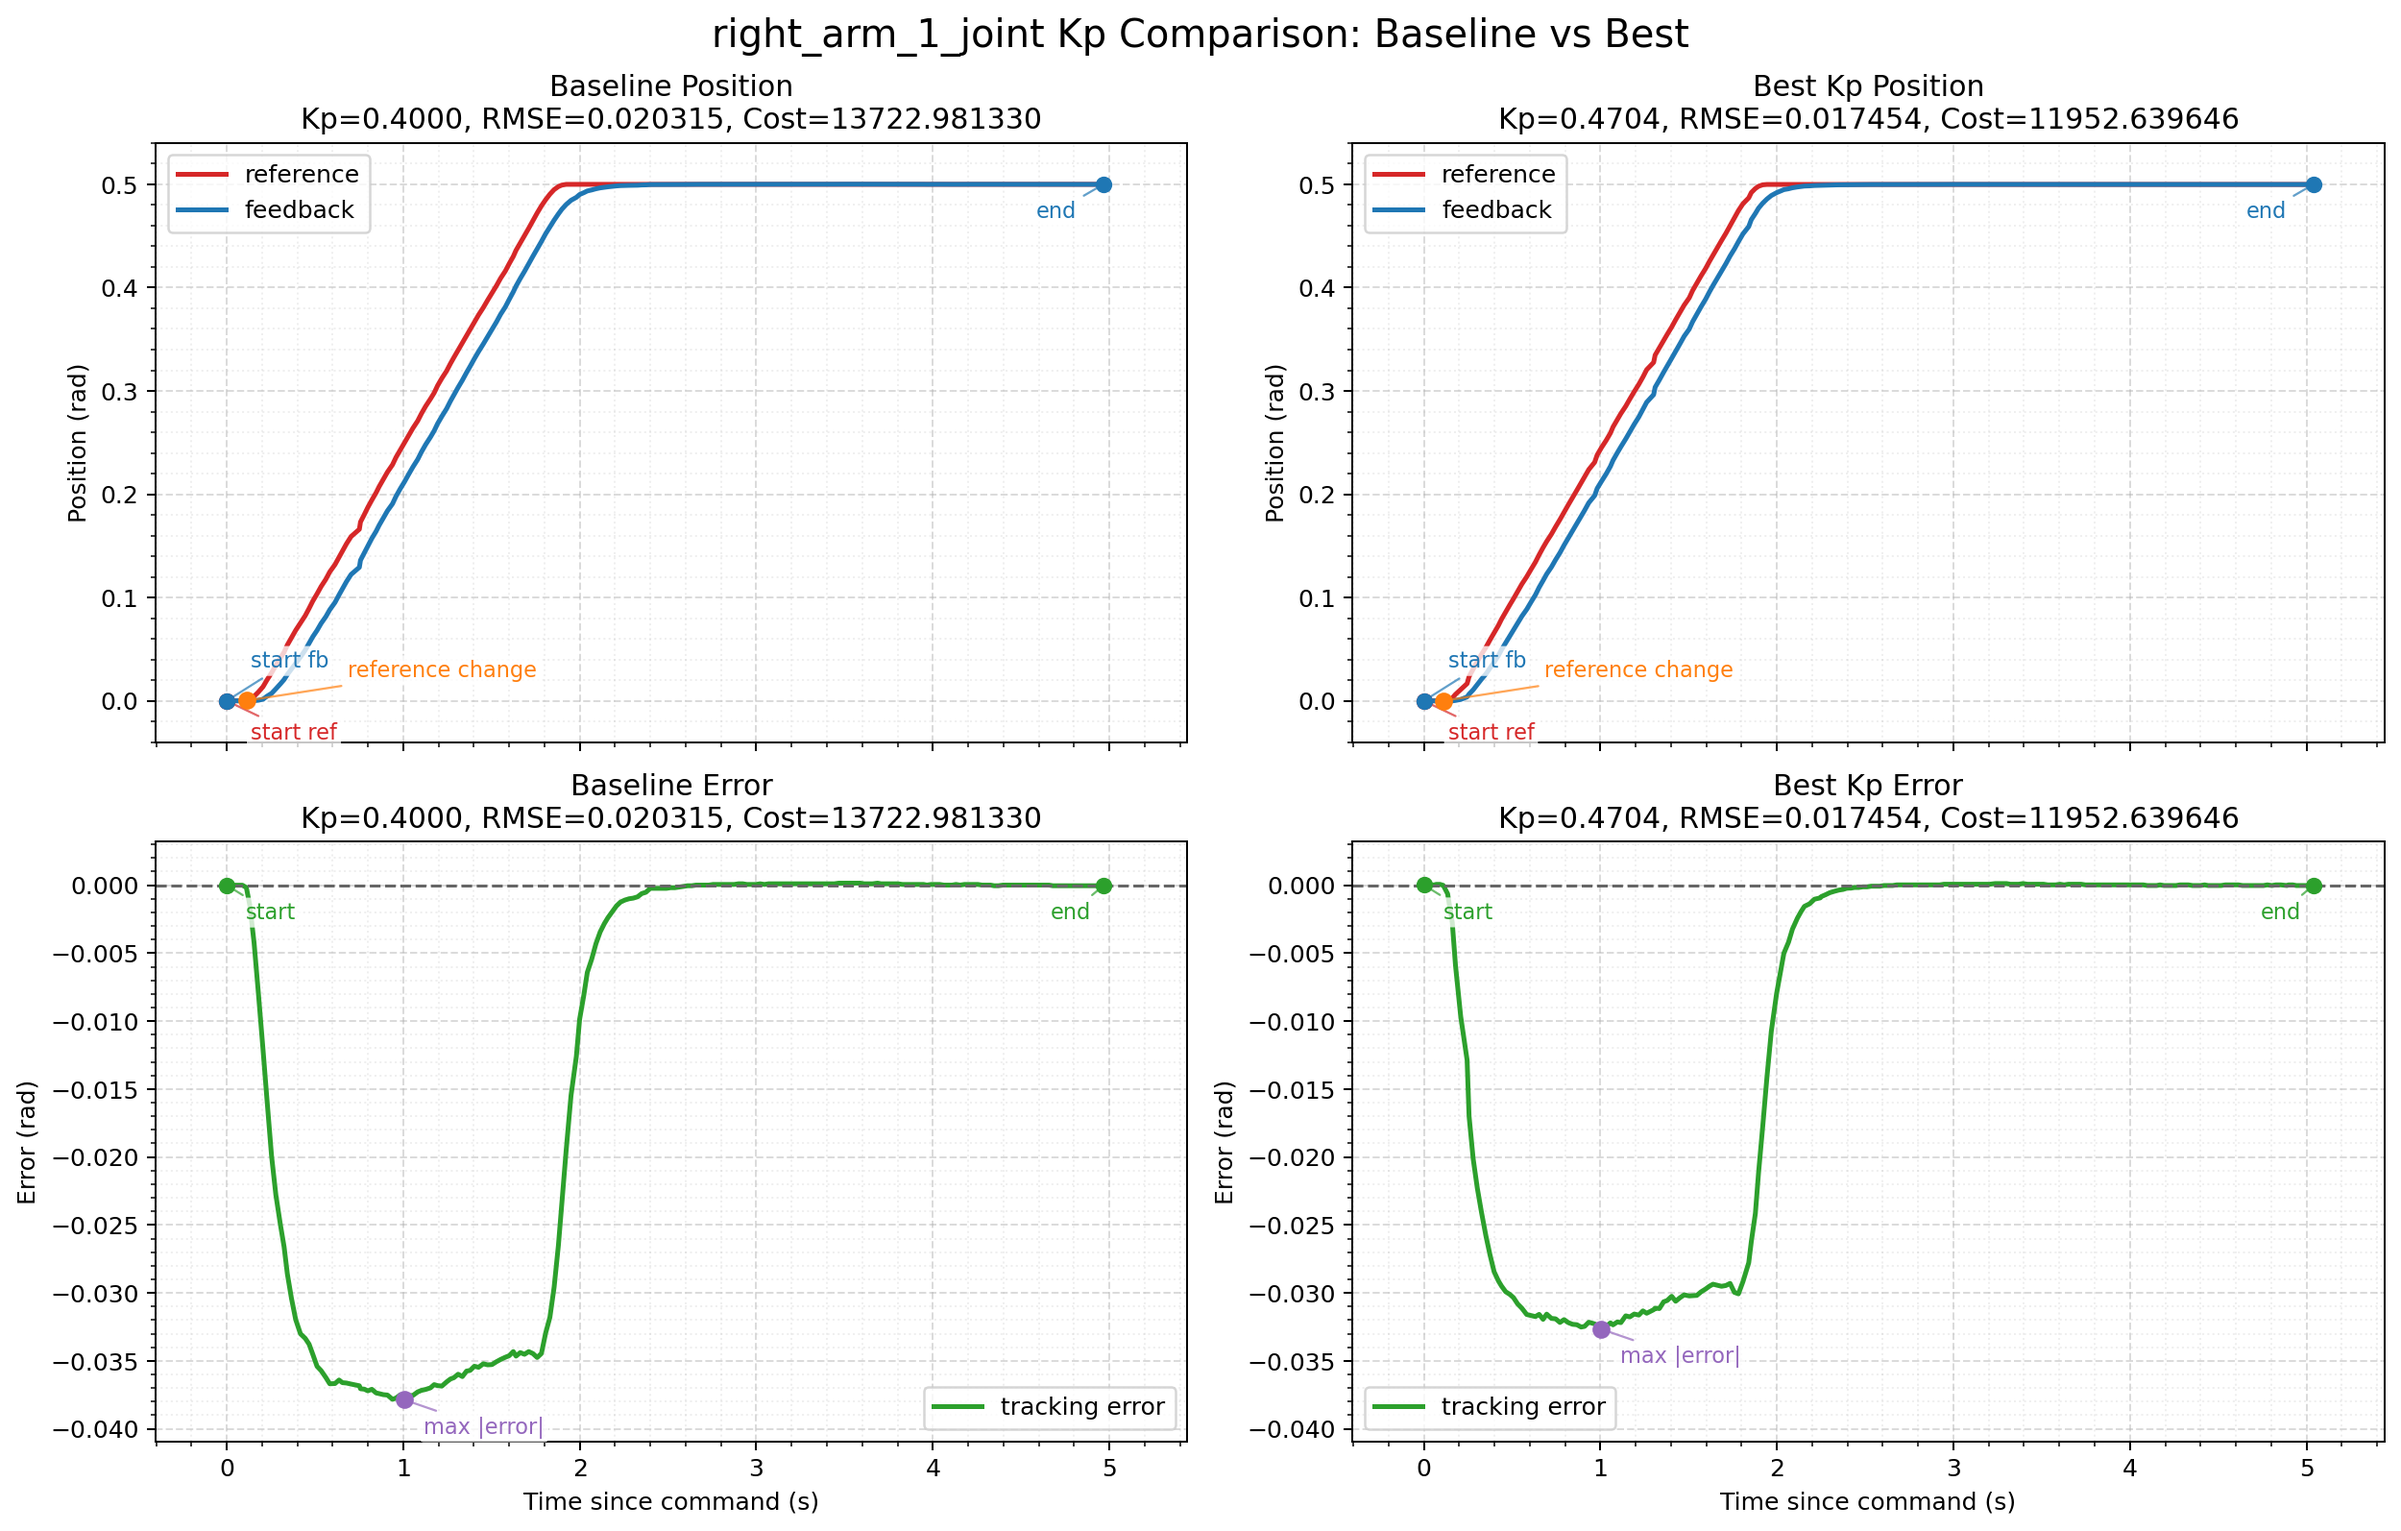
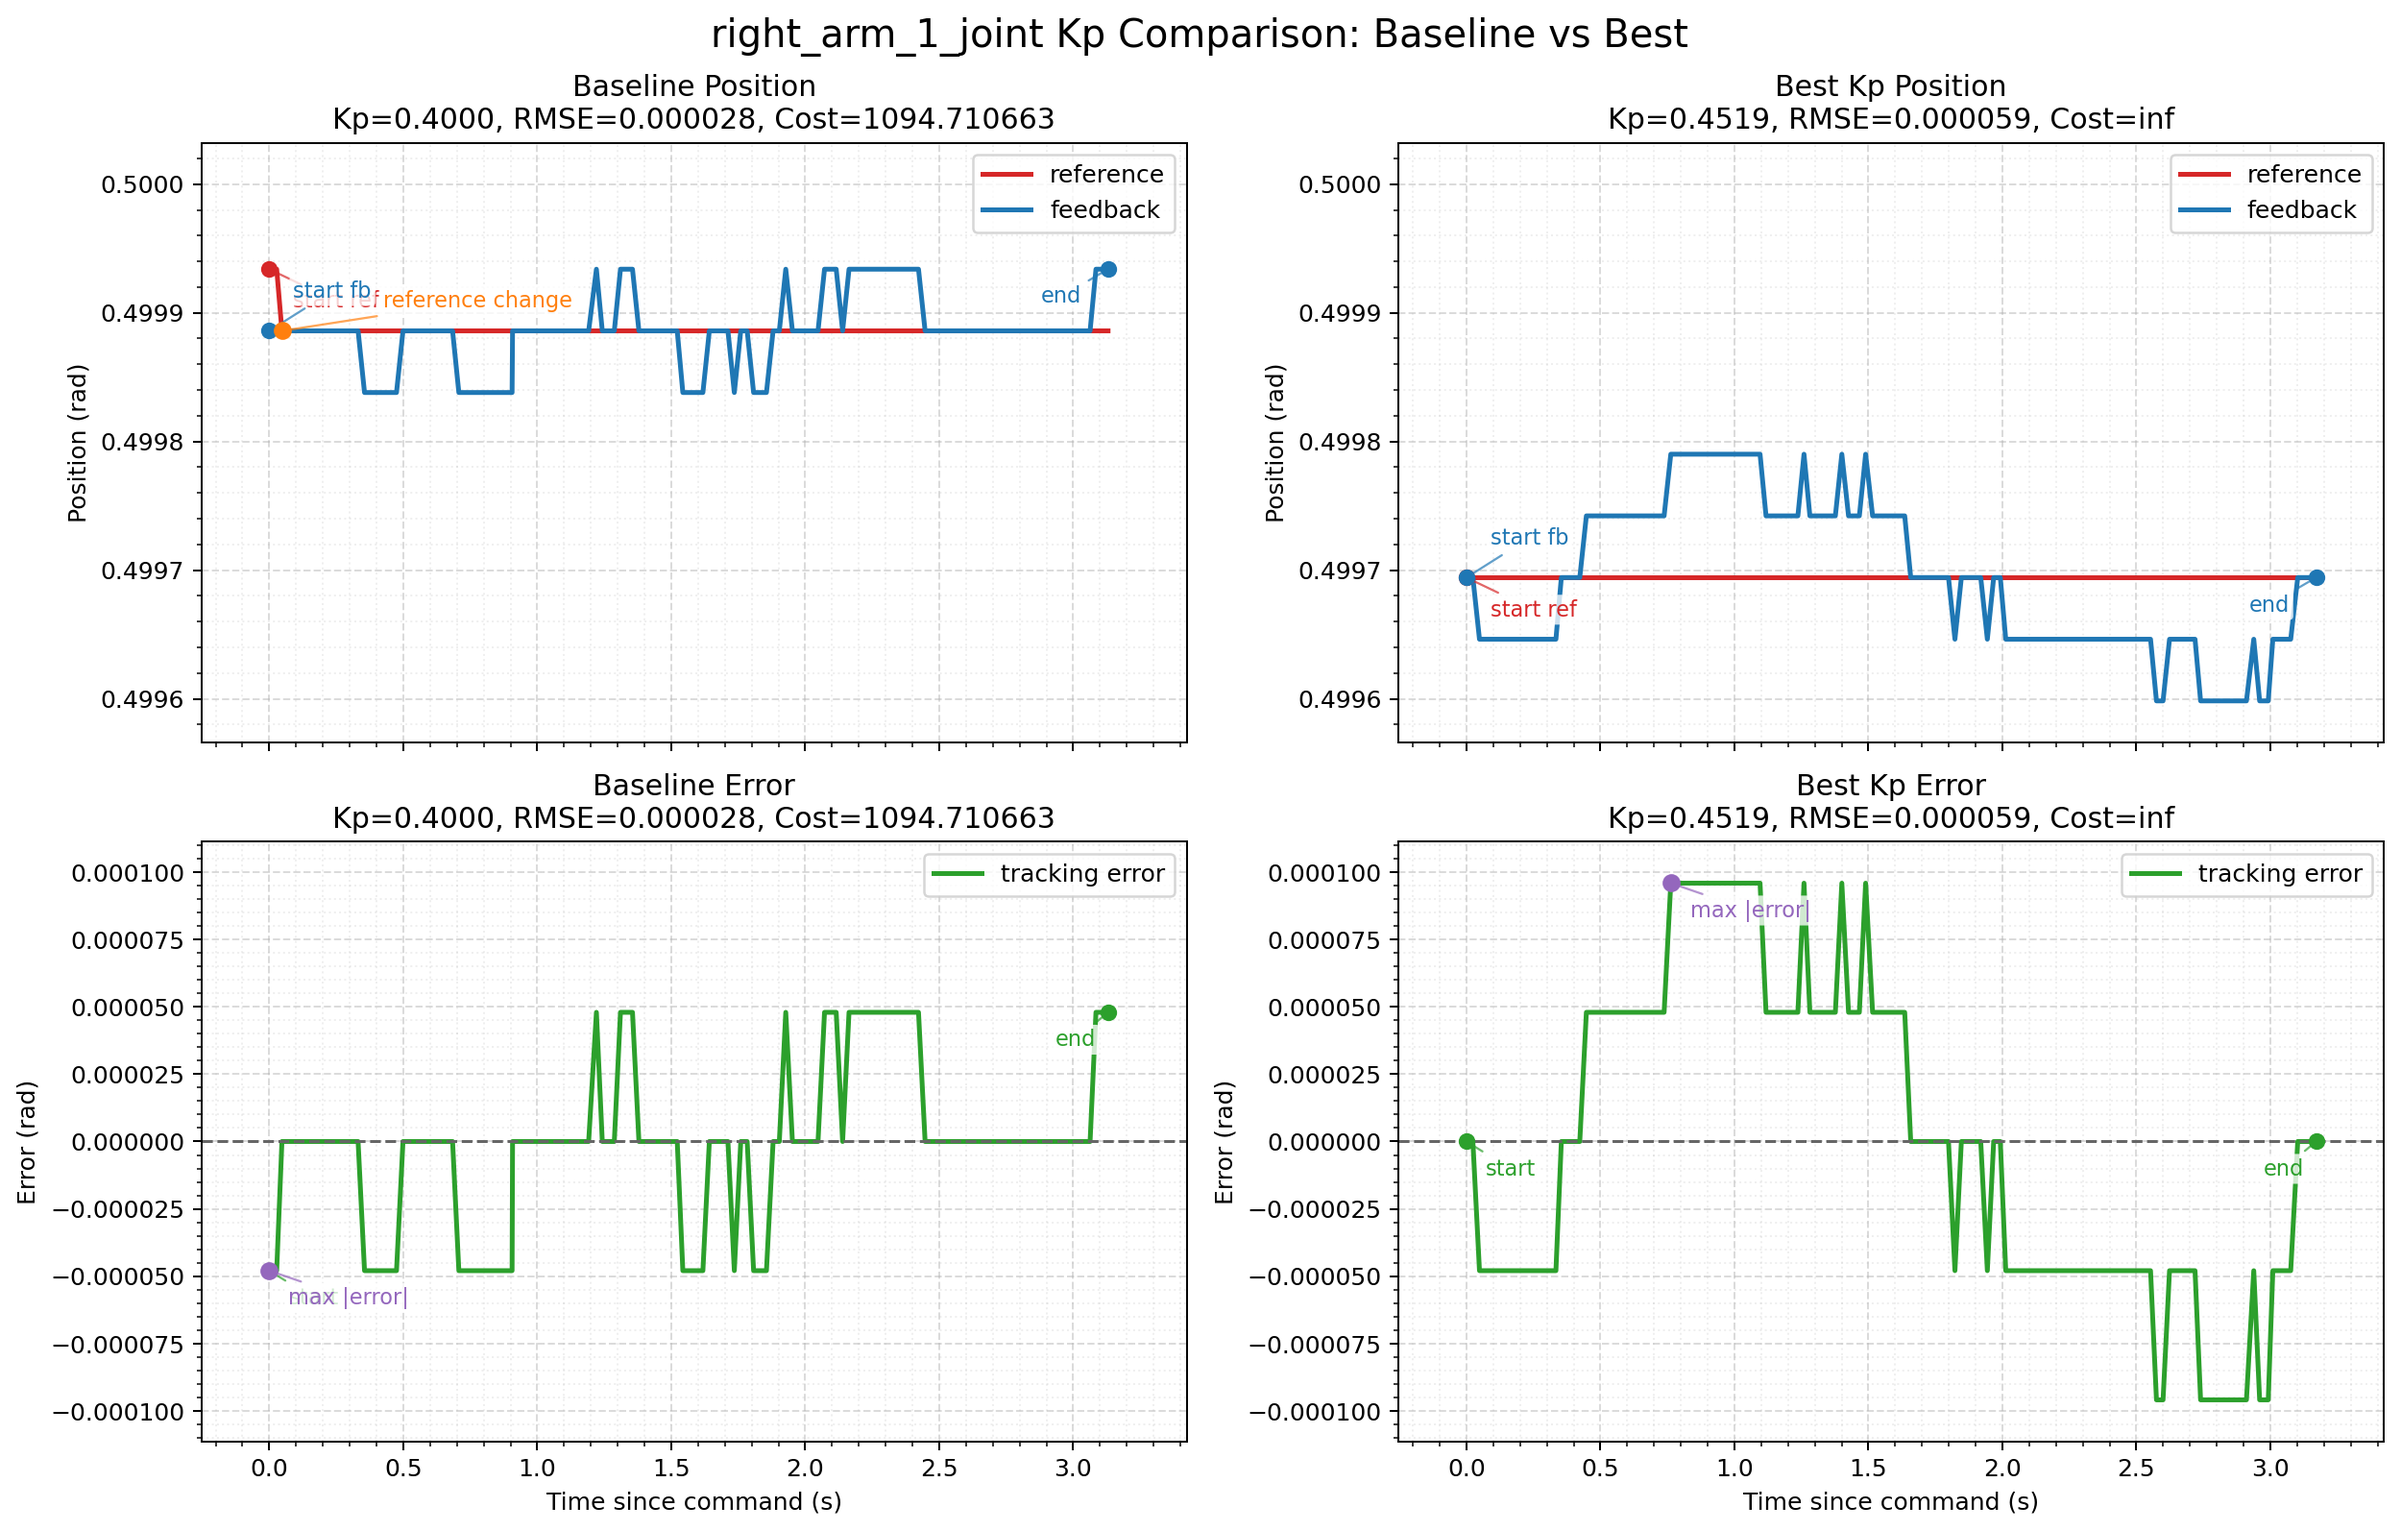
自动设定调参范围

diff --git a/right_1_arm.py b/right_1_arm.py
@@ -35,6 +35,7 @@ PHASE_LAG_COST_WEIGHT = 0.35  # 相位滞后在基础代价中的权重。
 AMPLITUDE_RATIO_COST_WEIGHT = 0.35  # 幅值比在基础代价中的权重。
 KP_INTERVAL_TOLERANCE = 0.001  # 三分搜索区间宽度小于此值时提前收敛。
 KP_MIN_ITERATIONS = 2  # 即使已达标，也至少跑这么多轮再停止。
+DEFAULT_KP_RANGE = 0.2  # 自动调参时，在当前 Kp 上下各浮动此值作为默认搜索范围。
 
 
 @dataclass
@@ -1212,17 +1213,23 @@ def parse_args() -> argparse.Namespace:  # 定义并解析命令行参数。
         default=DEFAULT_KP_ALIAS,
         help=f"EtherCAT alias of the joint drive. Default: {DEFAULT_KP_ALIAS}",
     )
-    parser.add_argument(  # 添加可选参数 `--kp-min`，用于指定自动调参下界。
+    parser.add_argument(  # 添加可选参数 `--kp-min`，不指定时自动在当前 Kp 下方浮动 kp_range。
         "--kp-min",
         type=float,
-        default=0.2,
-        help="Lower bound of Kp search interval. Default: 0.2",
+        default=None,
+        help="Lower bound of Kp search interval. Default: current_kp - kp_range",
     )
-    parser.add_argument(  # 添加可选参数 `--kp-max`，用于指定自动调参上界。
+    parser.add_argument(  # 添加可选参数 `--kp-max`，不指定时自动在当前 Kp 上方浮动 kp_range。
         "--kp-max",
         type=float,
-        default=0.5,
-        help="Upper bound of Kp search interval. Default: 0.5",
+        default=None,
+        help="Upper bound of Kp search interval. Default: current_kp + kp_range",
+    )
+    parser.add_argument(  # 添加可选参数 `--kp-range`，在当前 Kp 上下各浮动此值构成默认搜索区间。
+        "--kp-range",
+        type=float,
+        default=DEFAULT_KP_RANGE,
+        help=f"Kp search range offset from current Kp. Default: {DEFAULT_KP_RANGE}",
     )
     parser.add_argument(  # 添加可选参数 `--kp-index`，用于覆盖 SDO index。
         "--kp-index",
@@ -1422,19 +1429,20 @@ def main() -> int:  # 主函数，返回进程退出码。
         return KpTrialResult(kp=kp, tracker=tracker, metrics=metrics)
 
     def auto_tune_kp(req: MotionRequest) -> AutoTuneResult:  # 在给定区间内自动搜索一个代价更低的位置环 Kp。
-        if args.kp_min >= args.kp_max:
-            raise RuntimeError("--kp-min must be smaller than --kp-max")
         if args.kp_iterations < 1:
             raise RuntimeError("--kp-iterations must be at least 1")
 
         original_kp = read_kp(args.kp_alias, args.kp_index, args.kp_subindex)
-        print(f"kp_original: {original_kp:.6f}")
+        kp_range = args.kp_range
+        low = max(0.0, original_kp - kp_range) if args.kp_min is None else args.kp_min
+        high = original_kp + kp_range if args.kp_max is None else args.kp_max
+        if low >= high:
+            raise RuntimeError(f"Kp search interval is empty or inverted: [{low:.6f}, {high:.6f}]")
+        print(f"kp_original: {original_kp:.6f}, search_interval: [{low:.6f}, {high:.6f}]")
         _, reset_position = node.wait_for_controller_state(req.state_timeout)
         baseline_result = evaluate_kp_candidate(original_kp, reset_position, req)
         print_metrics(baseline_result.metrics, prefix=f"kp={original_kp:.6f} ")
 
-        low = args.kp_min
-        high = args.kp_max
         history: list[KpTrialResult] = []
         best: Optional[KpTrialResult] = baseline_result
         evaluated_costs: dict[int, float] = {}

diff --git a/使用说明.md b/使用说明.md
@@ -175,11 +175,16 @@ python3 right_1_arm.py 0.5 --auto-tune-kp
 - `--auto-tune-kp`
   - 启用自动调参
 
+- `--kp-range`
+  - 搜索偏移量，在当前 Kp 上下各浮动此值构成默认区间，默认 `0.2`
+  - 例：当前 Kp=0.4 时，默认搜索区间为 `[0.2, 0.6]`
+  - 下界自动 clamp 到 0，不会出现负值
+
 - `--kp-min`
-  - 搜索下界，默认 `0.2`
+  - 搜索下界，不指定时自动由 `当前Kp - kp-range` 计算
 
 - `--kp-max`
-  - 搜索上界，默认 `0.5`
+  - 搜索上界，不指定时自动由 `当前Kp + kp-range` 计算
 
 - `--kp-iterations`
   - 搜索轮数，默认 `4`
@@ -205,8 +210,22 @@ python3 right_1_arm.py 0.5 --observe-window 5
 
 ### 指定 Kp 搜索范围
 
+默认在当前 Kp 上下各浮动 0.2：
+
+```bash
+python3 right_1_arm.py 0.5 --auto-tune-kp
+```
+
+手动指定区间：
+
 ```bash
 python3 right_1_arm.py 0.5 --auto-tune-kp --kp-min 0.35 --kp-max 0.48 --kp-iterations 5
+```
+
+只调整浮动量：
+
+```bash
+python3 right_1_arm.py 0.5 --auto-tune-kp --kp-range 0.3
 ```
 
 ### 只测指标，不出图
